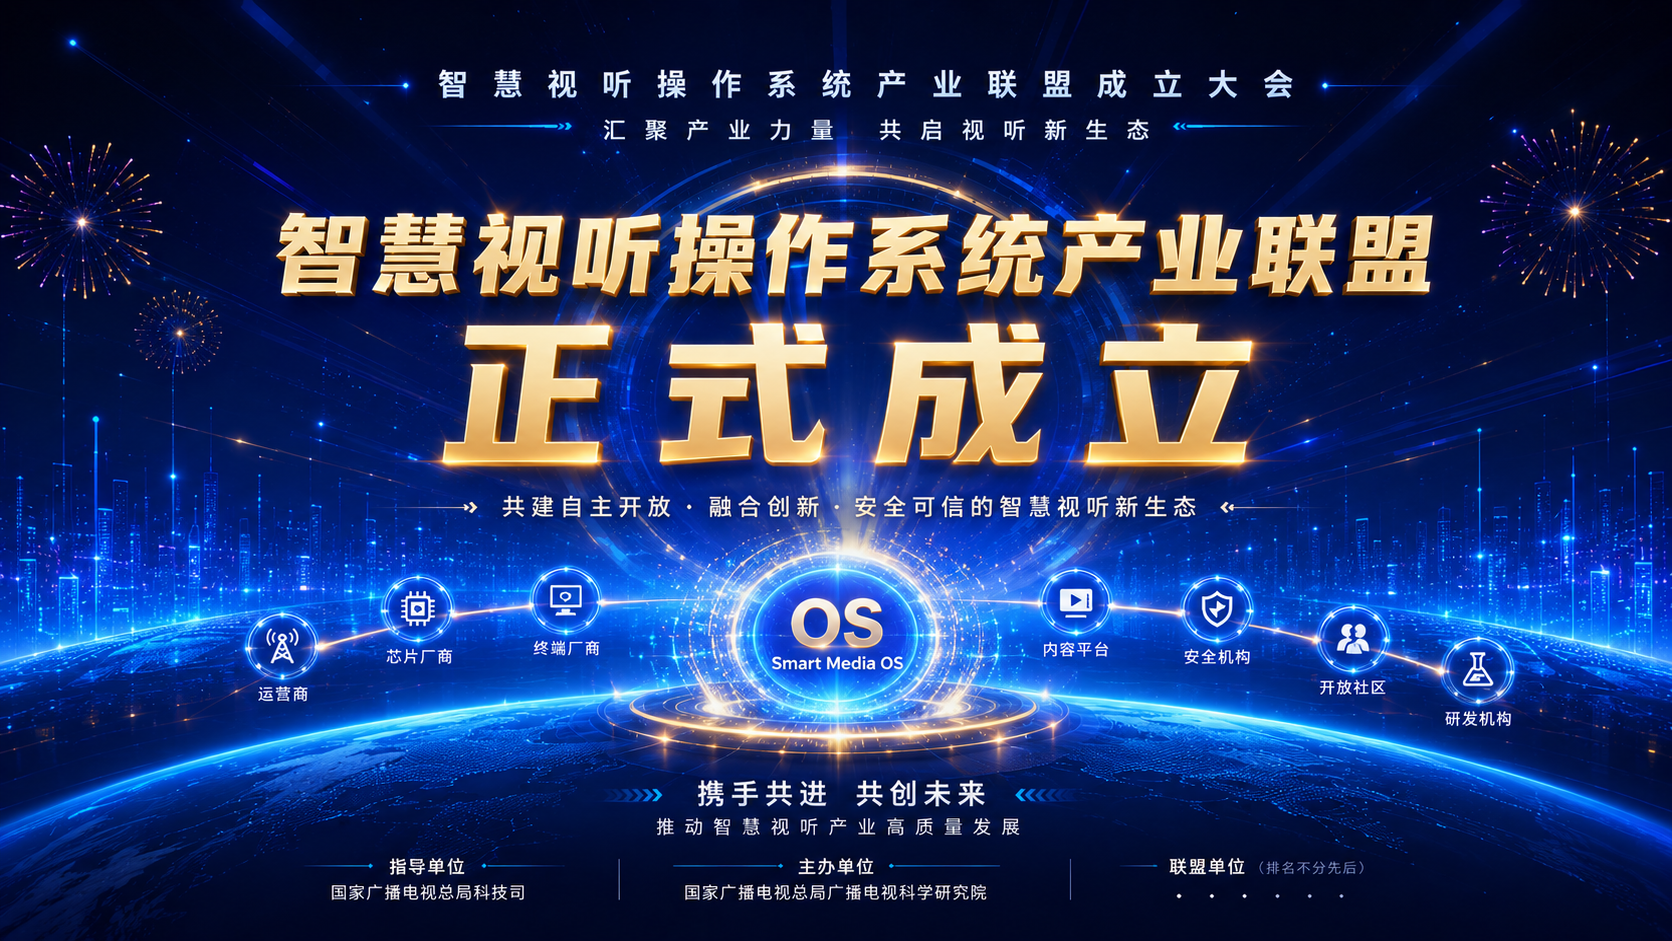
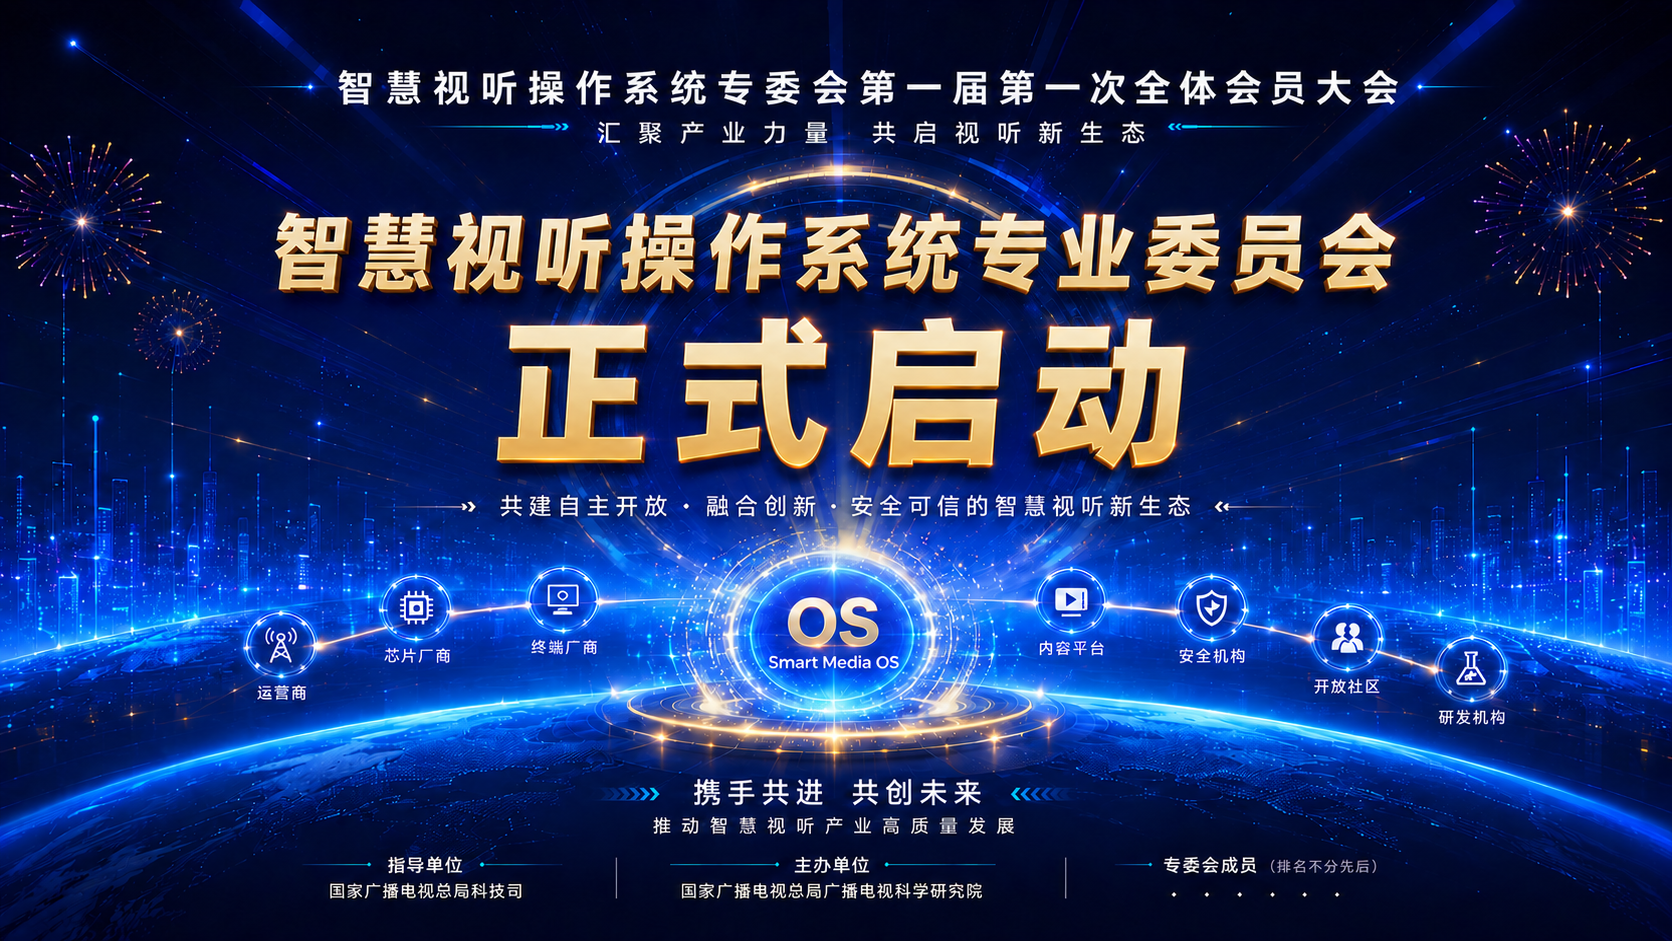
Update smart media committee launch copy

diff --git a/client/src/main.jsx b/client/src/main.jsx
@@ -355,7 +355,7 @@ function ScreenPage() {
       <header className="screen-header">
         <div />
         <div className="title-block">
-          <h1>智慧视听操作系统产业联盟成立大会</h1>
+          <h1>智慧视听操作系统专业委员会</h1>
           <p>汇聚产业能量　共启视听新生态</p>
         </div>
         <div className="scan-hint">
@@ -550,8 +550,8 @@ function MobilePage() {
         <span className={`mobile-status ${connected ? "online" : ""}`}>
           {connected ? "已连接现场大屏" : "连接中"}
         </span>
-        <h1><span>智慧视听操作系统</span><span>产业联盟成立大会</span></h1>
-        <p>{state.phase === "launched" ? "联盟已正式成立" : "点击按钮，将您的产业能量注入中央核心"}</p>
+        <h1><span>智慧视听操作系统</span><span>专业委员会</span></h1>
+        <p>{state.phase === "launched" ? "专业委员会已正式启动" : "点击按钮，将您的产业能量注入中央核心"}</p>
         <label className="unit-field">
           <span>姓名或单位名称</span>
           <input
@@ -763,7 +763,7 @@ function phaseText(phase) {
     charging: "扫码注入",
     boost: "强化加载",
     countdown: "倒计时",
-    launched: "已成立"
+    launched: "已启动"
   };
   return map[phase] || phase;
 }

diff --git a/server/index.js b/server/index.js
@@ -170,9 +170,9 @@ function enterLaunched() {
   state.energy = 100;
   state.litNodes = NODE_COUNT;
   state.countdown = null;
-  state.status = "正式成立";
-  state.message = "智慧视听操作系统产业联盟正式成立";
-  addLog("联盟正式成立，智慧视听新生态启动");
+  state.status = "正式启动";
+  state.message = "智慧视听操作系统专业委员会正式启动";
+  addLog("专业委员会正式启动，智慧视听新生态启动");
   syncDerivedState(100);
   state.phase = "launched";
   emitState("launch:complete", { flashId: Date.now() });
@@ -187,8 +187,8 @@ function startCountdown() {
   state.litNodes = NODE_COUNT;
   state.countdown = 5;
   state.status = "启动倒计时";
-  state.message = "联盟启动准备就绪";
-  addLog("联盟启动准备就绪，启动倒计时");
+  state.message = "专业委员会启动准备就绪";
+  addLog("专业委员会启动准备就绪，启动倒计时");
   emitState("countdown:start", { flashId: Date.now() });
 
   countdownTimer = setInterval(() => {

diff --git a/client/index.html b/client/index.html
@@ -3,7 +3,7 @@
   <head>
     <meta charset="UTF-8" />
     <meta name="viewport" content="width=device-width, initial-scale=1.0" />
-    <title>智慧视听操作系统产业联盟启动互动系统</title>
+    <title>智慧视听操作系统专业委员会启动互动系统</title>
   </head>
   <body>
     <div id="root"></div>
